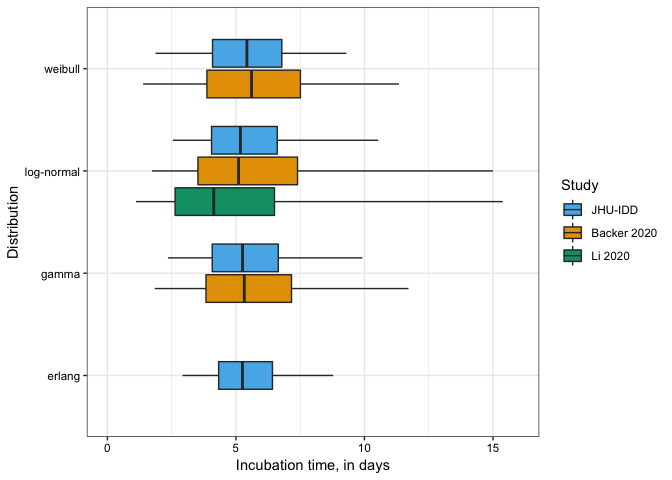
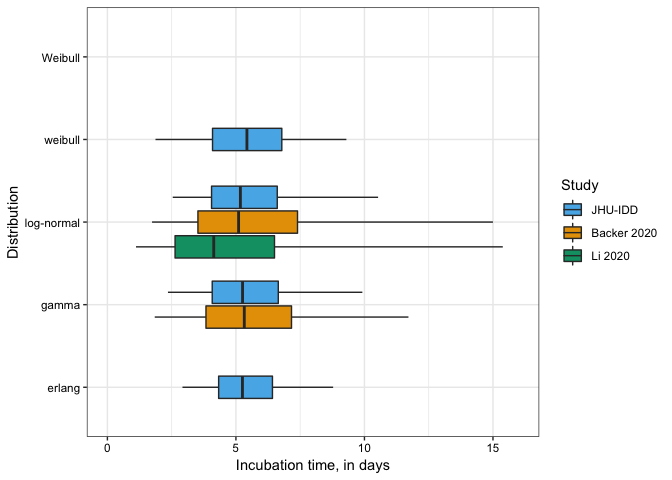
added DOI badge to README

diff --git a/README.md b/README.md
@@ -1,7 +1,9 @@
+[![DOI](https://zenodo.org/badge/216109073.svg)](https://zenodo.org/badge/latestdoi/216109073)
+
 Real-time estimation of the novel coronavirus incubation time
 =============================================================
 
-Updated: Thu Jan 30 16:39:49 2020
+Updated: Sun Feb 2 14:32:53 2020
 
 Our lab has been collecting data (freely available at
 [`data/nCoV-IDD-traveler-data.csv`](https://github.com/HopkinsIDD/ncov_incubation/blob/master/data/nCoV-IDD-traveler-data.csv))
@@ -43,6 +45,11 @@ case in our dataset, relative to the right-bound of the exposure window
 indicate the symptom onset windows for each case. Purple areas are where
 those two bars overlap.
 </p>
+
+The bars where the exposure and symptom onset windows completely overlap
+are frequently travelers from Wuhan who were symptomatic on arrival to
+another country, that did not release further details. These cases could
+have been exposed or symptomatic at any point prior to their trip
 
 Exposure and symptom onset windows
 ----------------------------------
@@ -226,7 +233,7 @@ comparison of our incubation periods are shown below:
 
 <img src="README_files/figure-markdown_strict/comparison-1.png" style="display: block; margin: auto;" />
 
-The median estimates from all models lie between 4.14 and 5.61. The
+The median estimates from all models lie between 4.14 and 10.73. The
 lower and upper tails for our distributions are all closer to the median
 than from the other studies, whether this is due to differences in data
 or in estimation methodologies is open for investigation.
@@ -283,7 +290,7 @@ distributions.
 </tr>
 <tr class="odd">
 <td style="text-align: left;">Backer 2020</td>
-<td style="text-align: center;">weibull</td>
+<td style="text-align: center;">Weibull</td>
 <td style="text-align: right;">34</td>
 <td style="text-align: right;">2.37</td>
 <td style="text-align: right;">6.54</td>
